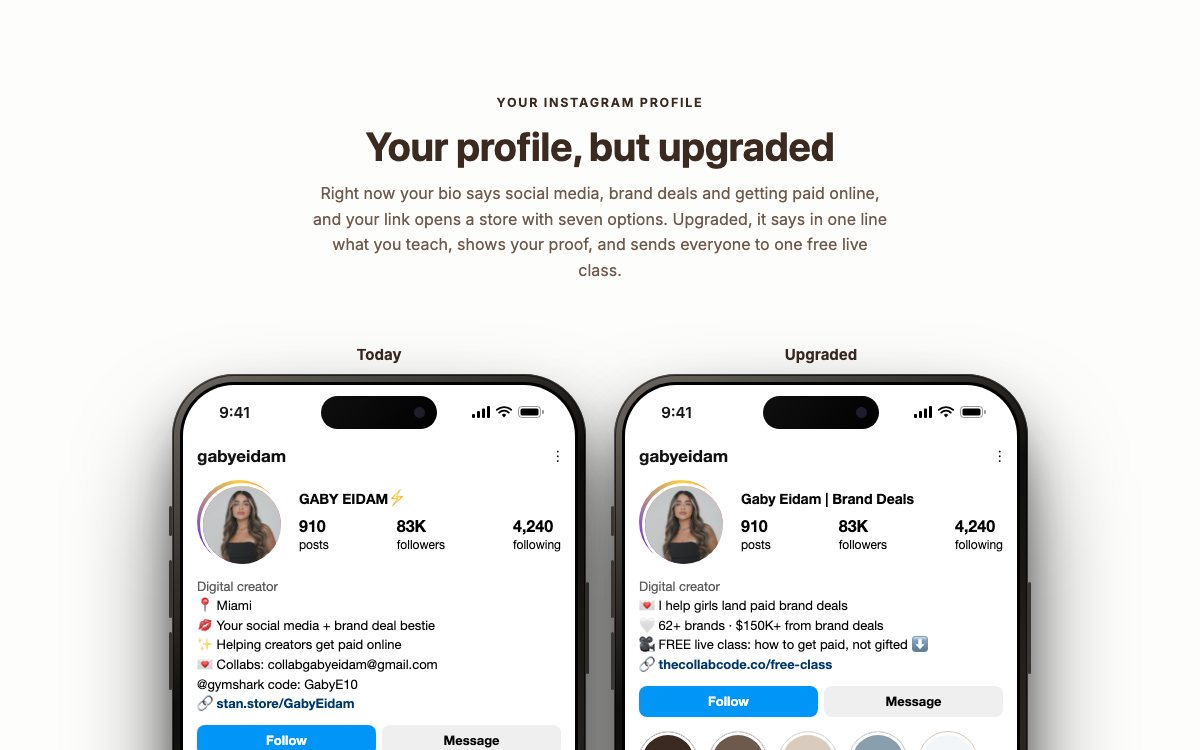
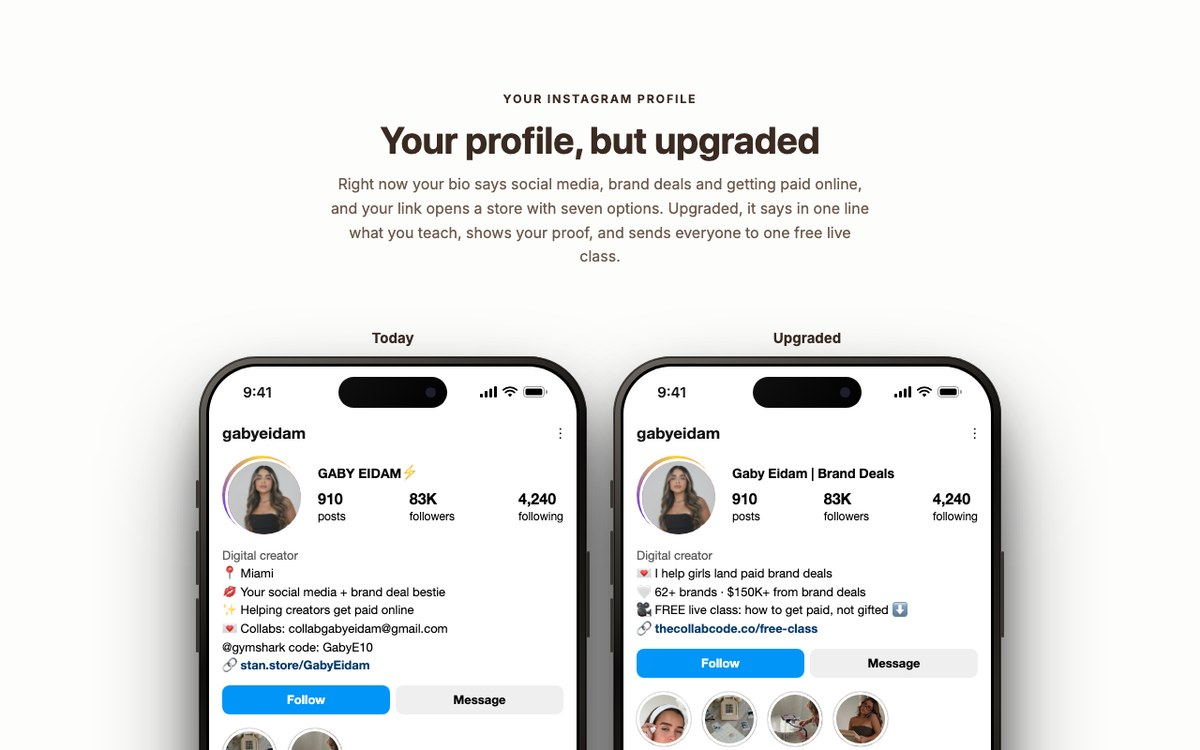
Refresh stale card thumbnails

diff --git a/index.html b/index.html
@@ -172,7 +172,7 @@
           </div>
           <div class="grid grid--1">
             <button class="pcard reveal" data-title="Your optimised Instagram profile" data-embed="ig-profile/?v=1" data-noanim>
-              <span class="thumb"><span class="thumb__bar"><i></i><i></i><i></i><span class="thumb__url">instagram.com/gabyeidam</span></span><img class="thumb__img" src="assets/img/igprofile-preview.jpg?v=1" alt="Your optimised Instagram profile preview" loading="lazy" /></span>
+              <span class="thumb"><span class="thumb__bar"><i></i><i></i><i></i><span class="thumb__url">instagram.com/gabyeidam</span></span><img class="thumb__img" src="assets/img/igprofile-preview.jpg?v=t2138" alt="Your optimised Instagram profile preview" loading="lazy" /></span>
               <span class="pcard__body"><span><span class="pcard__kicker">Before and after</span><span class="pcard__title">Your optimised Instagram profile</span><span class="pcard__desc">A bio that says what you teach in one line, one link to your free class, and 3 pinned posts that end with &ldquo;Comment the word COLLAB&rdquo;.</span></span><span class="pcard__link">Open preview <span class="arrow" aria-hidden="true"></span></span></span>
             </button>
           </div>
